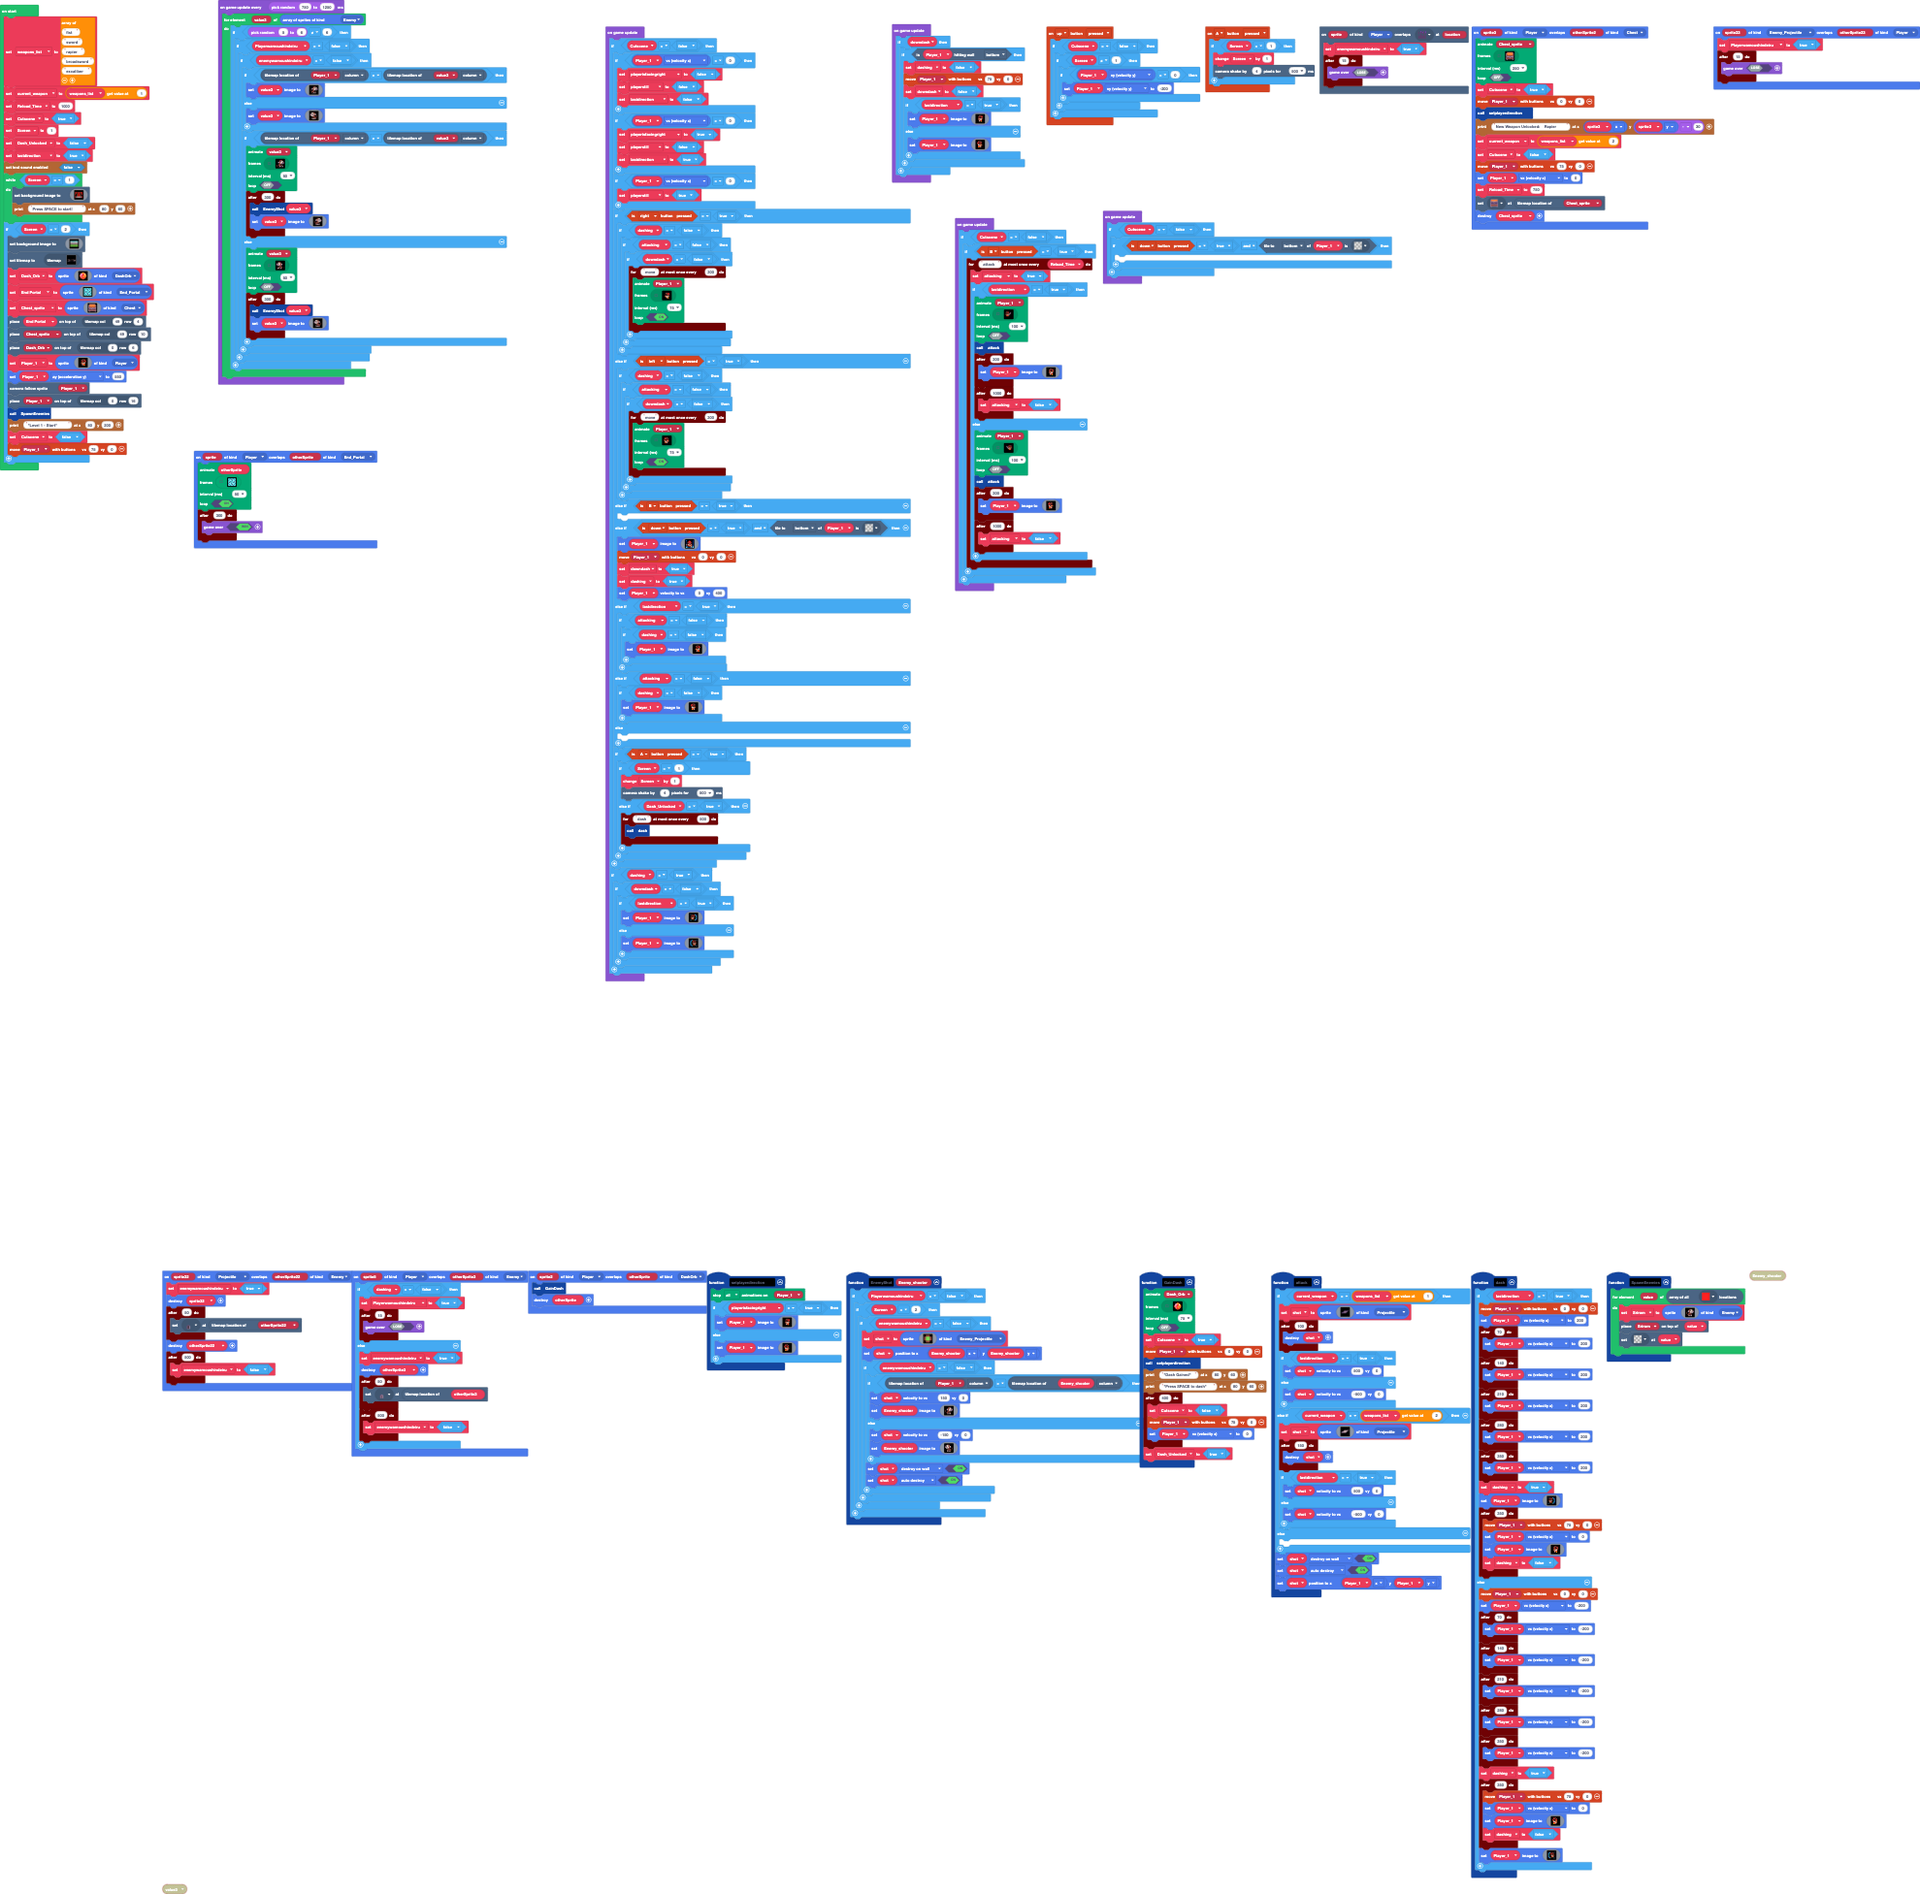
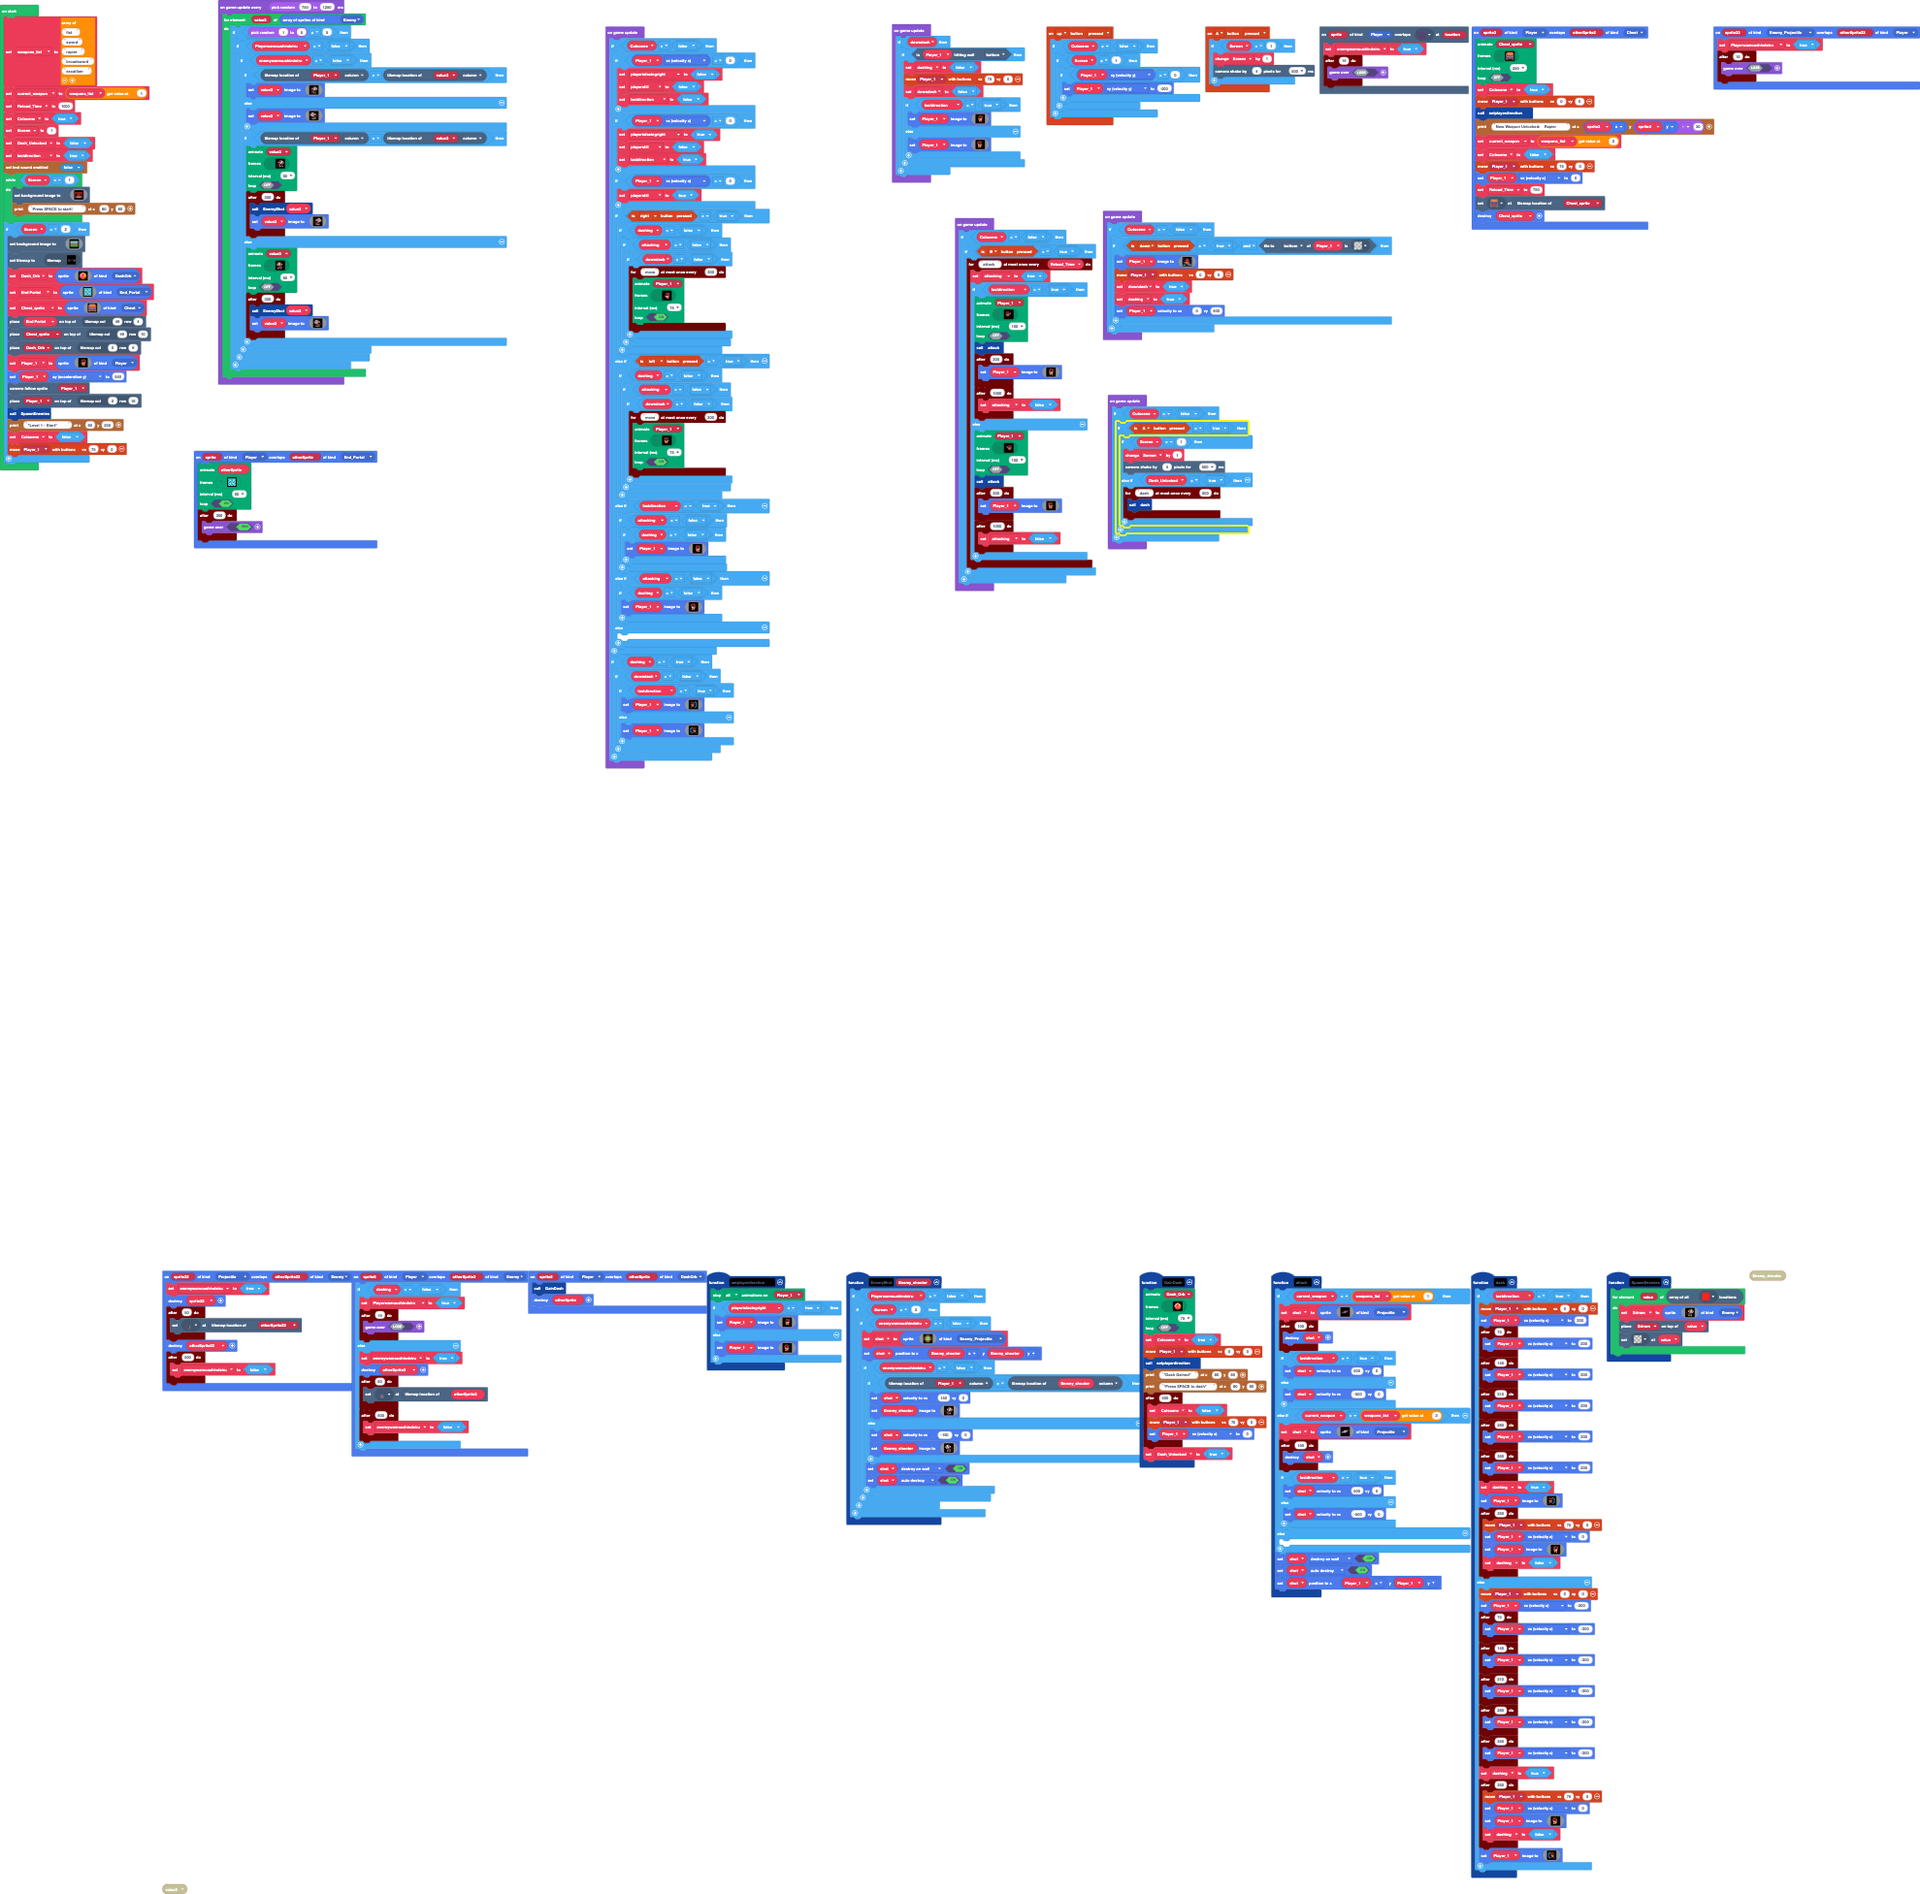
A button can now be used while moving

diff --git a/main.ts b/main.ts
@@ -385,14 +385,6 @@ game.onUpdate(function () {
                     }
                 }
             }
-        } else if (controller.B.isPressed() == true) {
-        	
-        } else if (controller.down.isPressed() == true && Player_1.tileKindAt(TileDirection.Bottom, assets.tile`transparency16`)) {
-            Player_1.setImage(assets.image`Downward Strike Sprite Image`)
-            controller.moveSprite(Player_1, 0, 0)
-            downdash = true
-            dashing = true
-            Player_1.setVelocity(0, 400)
         } else if (lastdirection == true) {
             if (attacking == false) {
                 if (dashing == false) {
@@ -422,16 +414,6 @@ game.onUpdate(function () {
             }
         } else {
         	
-        }
-        if (controller.A.isPressed() == true) {
-            if (Screen == 1) {
-                Screen += 1
-                scene.cameraShake(4, 500)
-            } else if (Dash_Unlocked == true) {
-                timer.throttle("dash", 500, function () {
-                    dash()
-                })
-            }
         }
     }
     if (dashing == true) {
@@ -533,13 +515,31 @@ game.onUpdate(function () {
 game.onUpdate(function () {
     if (Cutscene == false) {
         if (controller.down.isPressed() == true && Player_1.tileKindAt(TileDirection.Bottom, assets.tile`transparency16`)) {
-        	
+            Player_1.setImage(assets.image`Downward Strike Sprite Image`)
+            controller.moveSprite(Player_1, 0, 0)
+            downdash = true
+            dashing = true
+            Player_1.setVelocity(0, 400)
+        }
+    }
+})
+game.onUpdate(function () {
+    if (Cutscene == false) {
+        if (controller.A.isPressed() == true) {
+            if (Screen == 1) {
+                Screen += 1
+                scene.cameraShake(4, 500)
+            } else if (Dash_Unlocked == true) {
+                timer.throttle("dash", 500, function () {
+                    dash()
+                })
+            }
         }
     }
 })
 game.onUpdateInterval(randint(750, 1250), function () {
     for (let value3 of sprites.allOfKind(SpriteKind.Enemy)) {
-        if (randint(5, 6) != 6) {
+        if (randint(1, 5) != 5) {
             if (Playerwamoushindeiru == false) {
                 if (enemywamoushindeiru == false) {
                     if (Player_1.tilemapLocation().column > value3.tilemapLocation().column) {
